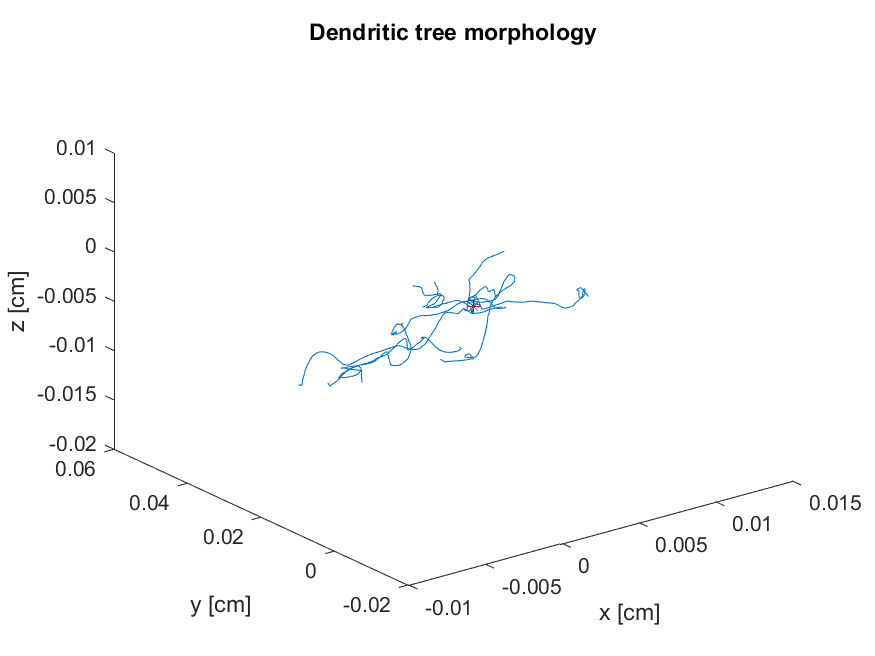
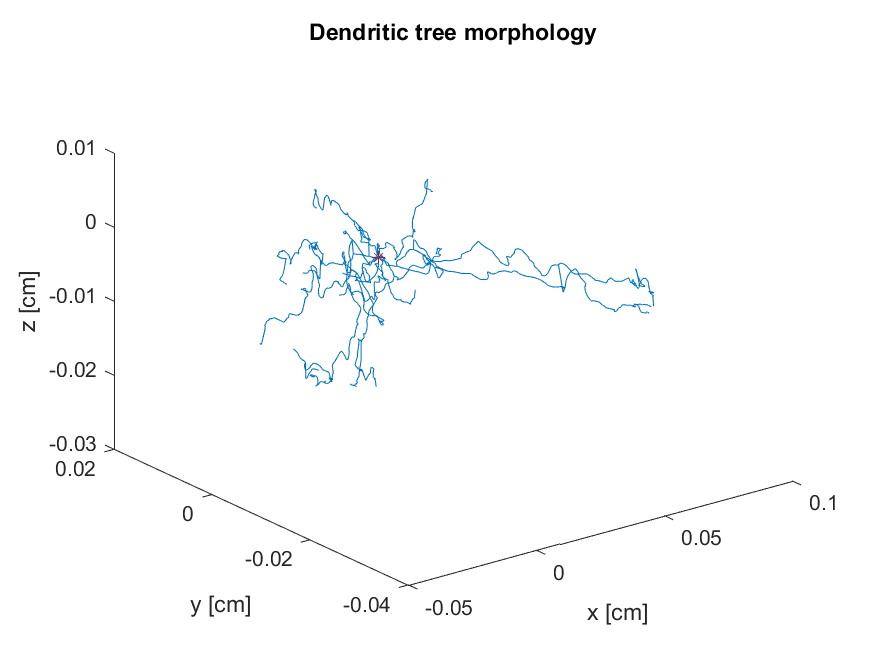
selected neuron was actually an interneuron -- changed neuron of interest

diff --git a/lpfilter/lpfilter.m b/lpfilter/lpfilter.m
@@ -4,20 +4,23 @@
 % Topic 5: low pass filtering
 %%%%%%%%%%%%%%%%%%%%%%%%%%%%%%%%%%%%%%%%%%%%%%%%%%%%%%%%%%%%%%%%%%%%%%%%%%%
 %
+%% Refresh workspace
+clr;
+
 %% Download file
-url = 'http://neuromorpho.org/dableFiles/cameron/CNG%20version/71INTER.CNG.swc';
+new = 0;
+
+url = 'http://neuromorpho.org/dableFiles/cameron/CNG%20version/HP72N6B.CNG.swc';
 name_split = strsplit(url, '/');
 origname = name_split(end);
 filename = char(strrep(origname, 'swc', 'txt'));
-outfilename = websave(filename,url);
-
+if new    outfilename = websave(filename,url); end
 %% Import and preprocess data
 dat = table2array(readtable(filename));  % import file and convert to array
 fdata = dat(:,all(~isnan(dat)));  % remove columns with nans
 data = fdata(fdata(:,2)~=2,:);  % remove axons
 datafile = strrep(filename,'txt', 'mat');
-save(datafile,'fdata','data'); % save data to file
-
+if new  save(datafile,'fdata','data'); end% save data to file
 %% Plot dendritic tree
 load(datafile) % variable name is data
 
@@ -106,10 +109,12 @@ end
 lambda = sqrt((Rm*radius)/(Ri*2));
 
 % check if size constraint is satisfied for all dendritic segments
-constraint = length./lambda > 0.1;
+ratio = length./lambda;
+constraint =  ratio > 0.1;
 
 if find(constraint)
     disp('Constraint is NOT satisfied for all dendritic segments')
+    disp('Compartment '+string(find(constraint))+' does not satisfy the constraint')
 else
     disp('Constraint is satisfied for all dendritic segments!')
 end
@@ -170,7 +175,7 @@ B = eye(N).*(1./Cm_matrix);
 
 % construct U vector
 Iapp = 1e-9;  % mA
-inj_cmprt = 517;
+inj_cmprt = 348;
 U = zeros(N,1);
 U(inj_cmprt,1) = Iapp;
 
@@ -233,7 +238,7 @@ figure(2); clf; hold on;
 
 for i=1:numel(branches)
     plot(position{i},V_(branches{i}),'-');
-    % text(position{i},V_(branches{i})+0.001, cellstr(string(branches{i})),'FontSize',4);
+    % text(position{i},V_(branches{i})+0.001, cellstr(string(branches{i})),'FontSize',8);
 end
 
 xlabel('Electrontonic distance from soma'); ylabel('Steady state voltage [mV]');
